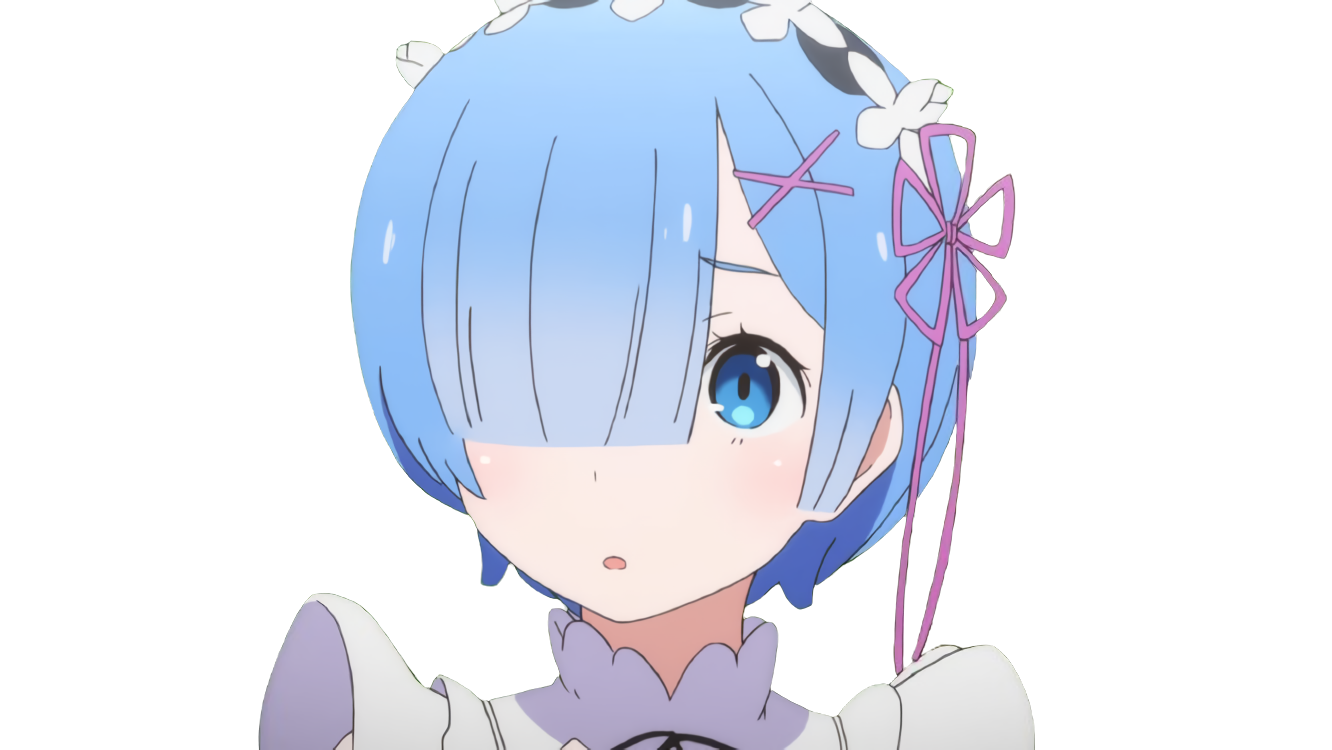
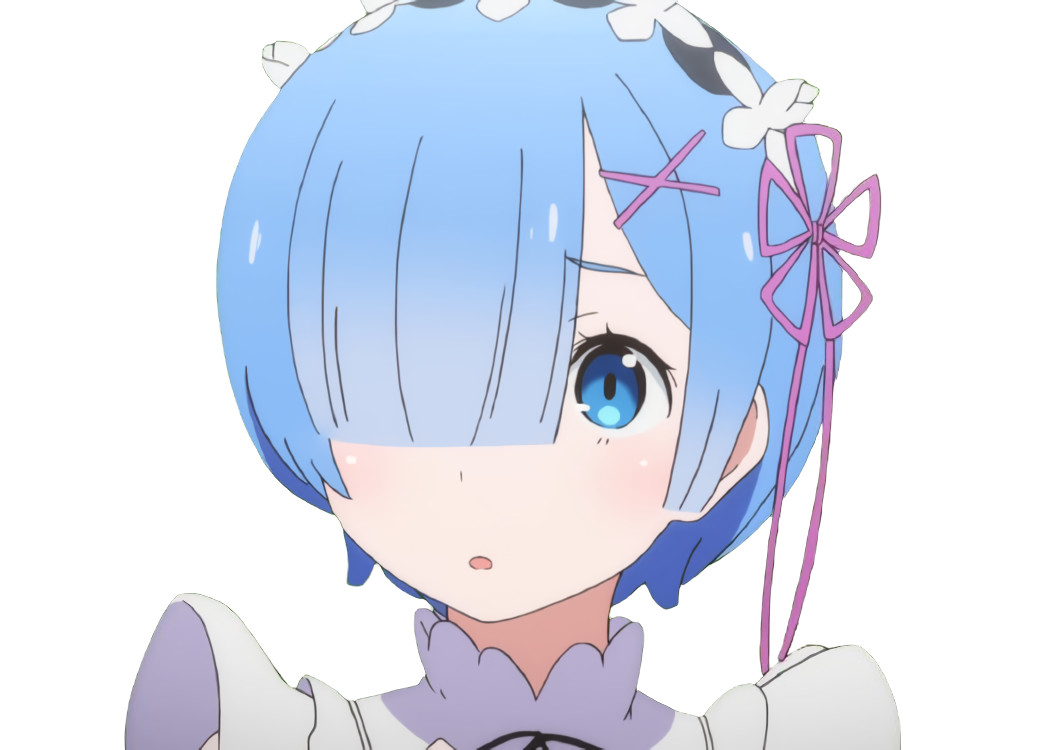
Refactor fetch error handling and update CSS styles, img update

diff --git a/mdatabase/style.css b/mdatabase/style.css
@@ -2,11 +2,11 @@
     box-sizing: border-box;
     margin: 0;
     padding: 0;
-    font-family: 'Roboto', sans-serif;
+    font-family: 'Arial', sans-serif;
     transition: all 0.3s ease;
 }
 
-html, body {  
+body {  
     padding: 20px;
     background-color: #EDF1F5;
     color: #333333;
@@ -14,26 +14,24 @@ html, body {
     height: 100%;
 }
 
+#nav {
+    text-align: center;
+}
 
 #mainTitle {
-    text-align: center;
+    font-weight: bold;
     margin-bottom: 5px;
     font-size: 3em;
-    font-family: 'Arial', sans-serif;
-    color: #333333;
 }
 
 #mainDescription {
-    text-align: center;
     margin-bottom: 5px;
     font-size: 1.5em;
-    font-family: 'Arial', sans-serif;
     color: #666666;
 }
 
 .spinner {
     animation: rotator 1.4s linear infinite;
-    font-family: 'Arial', sans-serif;
     width: 65px;
     height: 65px;
     position: fixed;
@@ -74,6 +72,14 @@ html, body {
         stroke-dashoffset: 187;
         transform:rotate(450deg);
     }
+}
+
+#error {
+    color: #FF0000;
+    font-size: 1.5em;
+    text-align: center;
+    margin-top: 20px;
+
 }
 
 #content {
@@ -127,7 +133,7 @@ html, body {
     display: none; 
 }
 
-#content div:hover {
+.chapter:hover {
     box-shadow: 0px 5px 25px 0px rgba(0,0,0,0.1);
     transform: translateY(-5px);
 }
@@ -150,7 +156,7 @@ html, body {
     position: fixed;
     right: 0;
     bottom: 0;
-    width: 29rem;
+    width: 23rem;
     height: auto;
 }
 
@@ -160,13 +166,13 @@ html, body {
         padding: 10px;
     }
 
-    #content {
-        width: 100%;
-        padding: 10px;
+    #nav {
+        margin: 0.7rem;
     }
 
-    #content div {
-        padding: 10px;
+    #content {
+        width: 100%;
+        padding: 0px;
     }
 
     #remImg {

diff --git a/mdatabase/data.js b/mdatabase/data.js
@@ -1,6 +1,11 @@
 // Fetch all the data from the API and display it on the page
 fetch('https://api.npoint.io/ed7902bd1810c6dc7014')
-    .then(response => response.json())
+    .then(response => {
+        if (!response.ok) {
+            throw new Error(`HTTP error! status: ${response.status}`);
+        }
+        return response.json();
+    })
     .then(urls => {
         Promise.all(urls.map(url =>
             fetch(url).then(response => response.json())
@@ -103,6 +108,20 @@ fetch('https://api.npoint.io/ed7902bd1810c6dc7014')
                 });
             })
             .catch(error => {
-                console.error('Error:', error);
+                // Create a new div for the error message
+                const errorDiv = document.createElement('div');
+                errorDiv.id = 'error';
+                const error1 = document.createElement('p');
+                error1.innerHTML = 'An error occurred while fetching the data';
+                errorDiv.appendChild(error1);
+                const error2 = document.createElement('p');
+                error2.innerHTML = 'Reloading the page in 5 seconds...';
+                errorDiv.appendChild(error2);
+                document.body.appendChild(errorDiv);
+
+                // Reload the page after 5 seconds
+                setTimeout(function () {
+                    location.reload();
+                }, 5000);
             });
     });

diff --git a/mdatabase/index.html b/mdatabase/index.html
@@ -1,5 +1,5 @@
 <!DOCTYPE html>
-<html>
+<html lang="en">
 <head>
     <title>mDatabase</title>
     <meta charset="utf-8">
@@ -10,12 +10,13 @@
     <link rel="stylesheet" href="style.css">
 </head>
 <body>
-    <h1 id="mainTitle">mDatabase</h1>
-    <p id="mainDescription">Maxix's personal database of magas and light novels</p>
+    <div id="nav">
+        <p id="mainTitle">mDatabase</p>
+        <p id="mainDescription">Maxix's personal database of magas and light novels</p>
+    </div>
     <svg id="spinner" class="spinner" viewBox="0 0 66 66" xmlns="http://www.w3.org/2000/svg">
         <circle class="path" fill="none" stroke-width="6" stroke-linecap="round" cx="33" cy="33" r="30"></circle>
     </svg>
-
     <img id="remImg" src="rem.png" alt="Rem">
     <script src="data.js"></script>
 </body>
